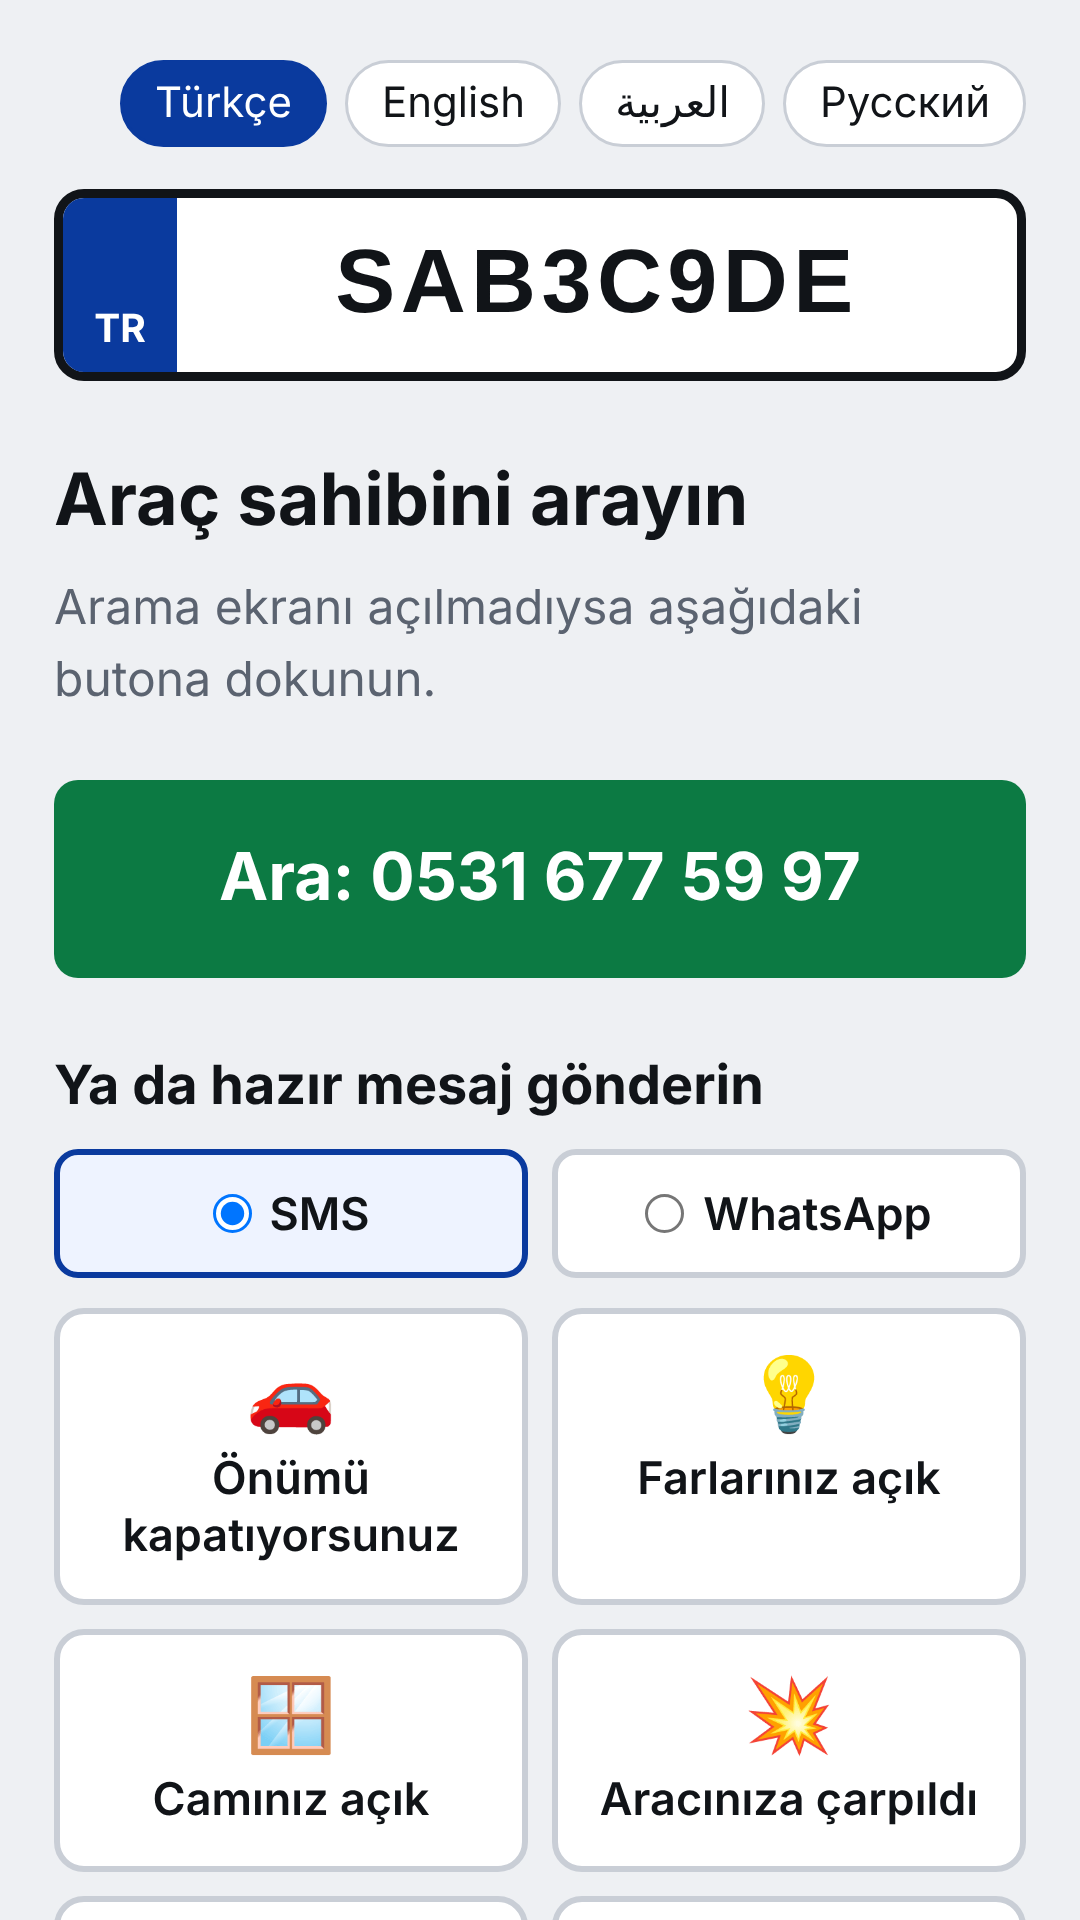
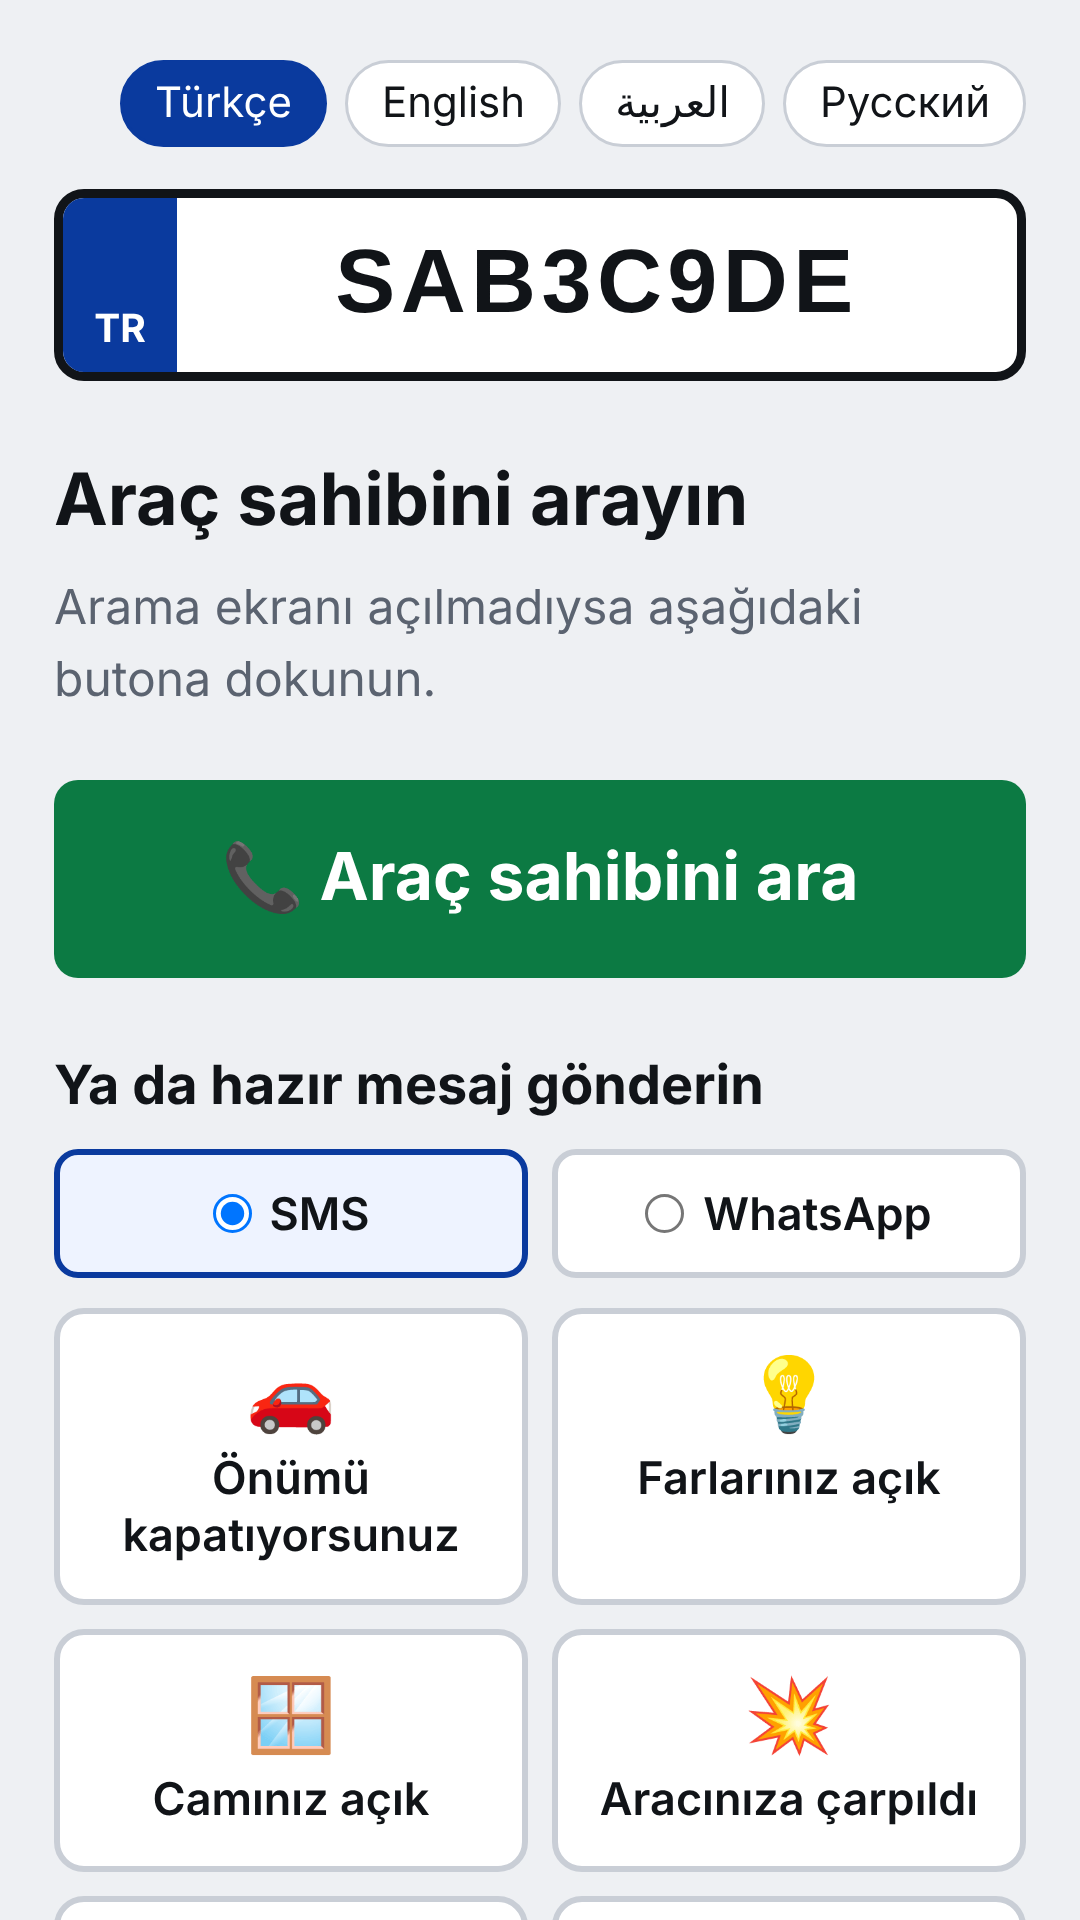
Play: mağaza ekran görüntüleri yeni arama ekranı ve 200 TL ile yeniden üretildi; 1.0.49 sürüm notu
Claude-Session: https://claude.ai/code/session_011ikTtd5WxzjBa6D7cnAviL

Changed region(s): [[0.1833, 0.4375, 0.7944, 0.5]]

diff --git a/android/GOOGLE_PLAY.md b/android/GOOGLE_PLAY.md
@@ -276,6 +276,17 @@ Google Play'e çıkması için 14 gün test eden 12 kişi lazım. 5 dakikanı al
 Çok teşekkürler! 💙
 ```
 
+### Sürüm notu: 1.0.49 (Play'e yapıştırılacak, dil etiketli)
+
+```
+<tr-TR>
+Yeni: PIN'imi unuttum, QR bilgileriniz e-postanızda. Tasma QR tanıtımı, yenilenen arama ekranı ve 200 TL basılı sticker.
+</tr-TR>
+<en-US>
+New: Forgot PIN with email recovery, refreshed call screen, Tasma QR showcase and printed stickers for 200 TL.
+</en-US>
+```
+
 ### Sürüm notu: PIN kurtarma güncellemesi (derleme 46 ve sonrası)
 
 - **Türkçe:** `Yeni: PIN'imi unuttum. E-postanızı ekleyin, QR kodlarınız ve PIN'leriniz e-postanıza gelsin. Yeni adres: arac.bulqr.com.tr`
